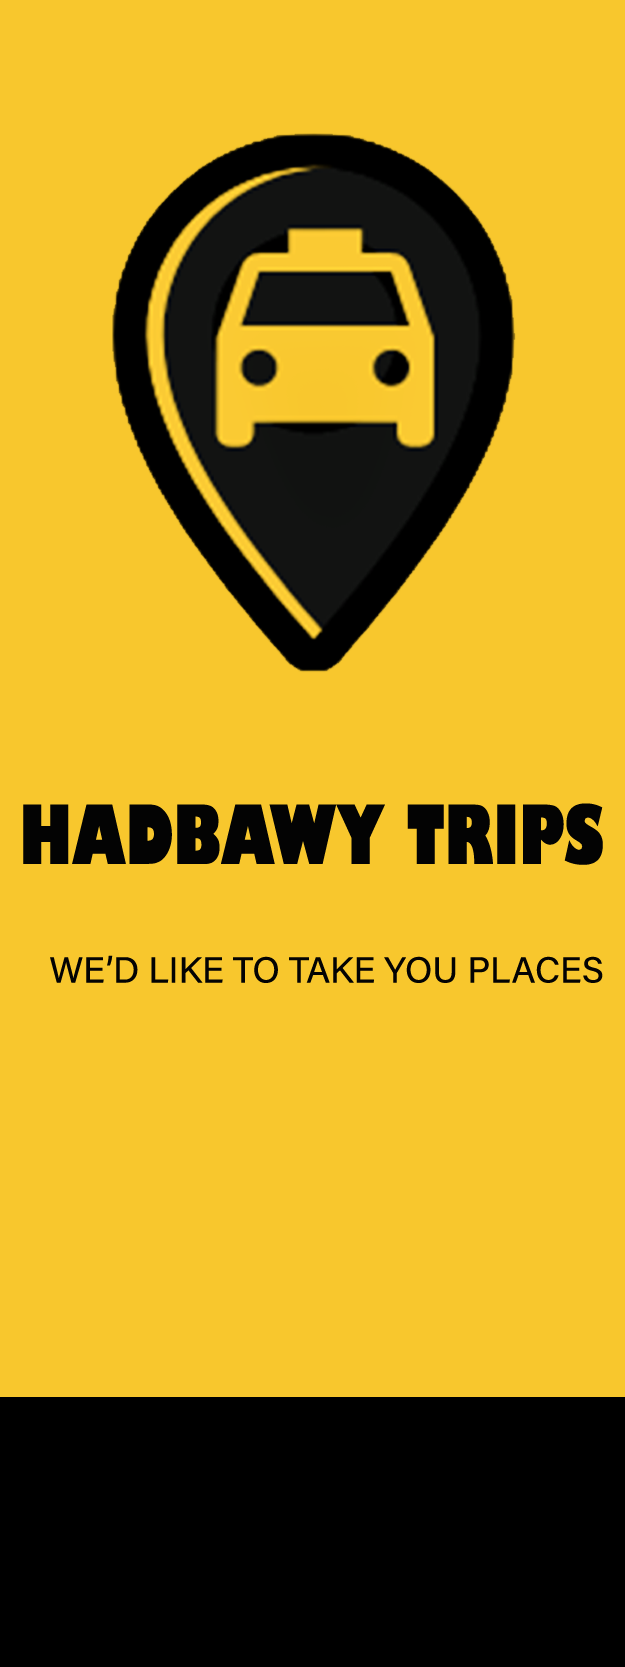
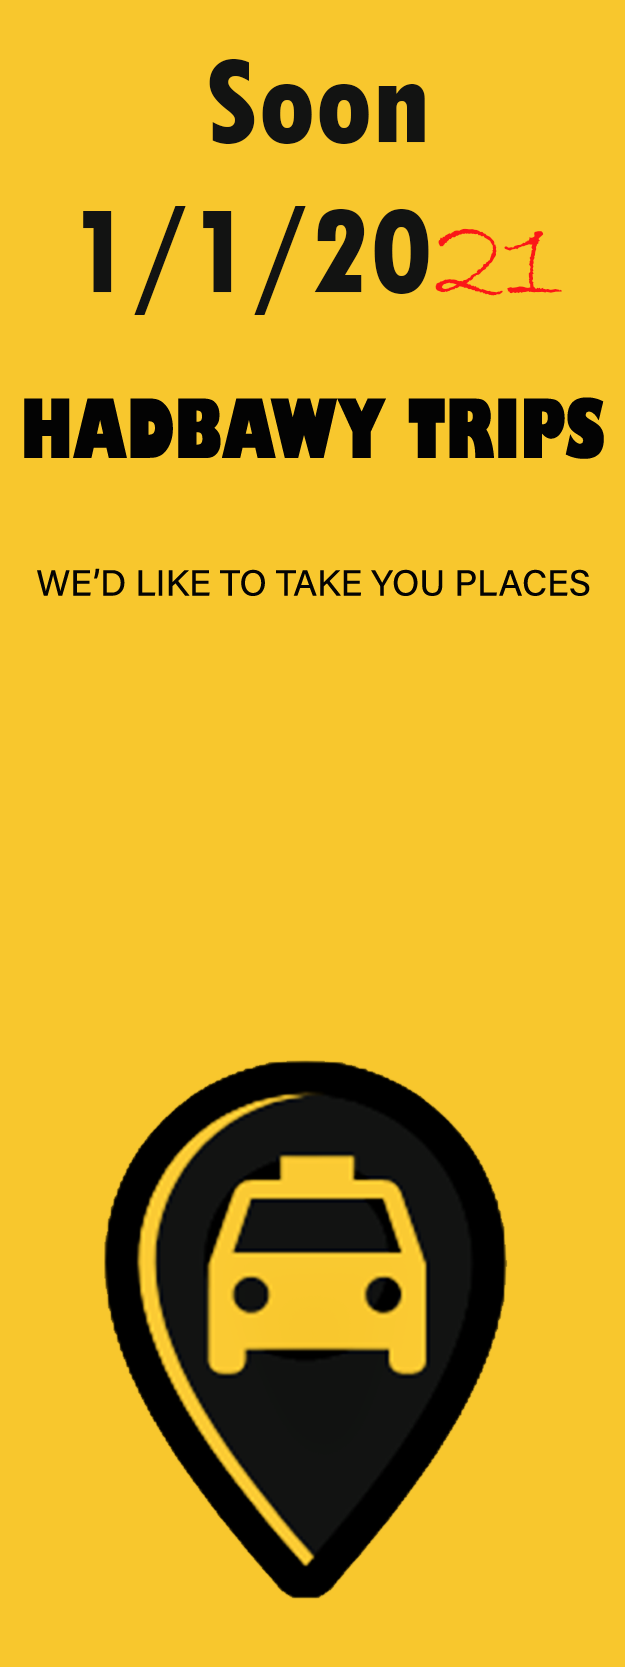
final Version

diff --git a/lib/main.dart b/lib/main.dart
@@ -5,7 +5,6 @@ import 'package:flutter/material.dart';
 import 'package:flutter/services.dart';
 import 'package:flutter_open_whatsapp/flutter_open_whatsapp.dart';
 import 'package:flutter_statusbarcolor/flutter_statusbarcolor.dart';
-import 'package:url_launcher/url_launcher.dart';
 
 void main() {
   runApp(SnackBarDemo());
@@ -81,7 +80,7 @@ class _SnackBarPageState extends State<SnackBarPage> {
             fit: BoxFit.fill,
           ),
           Positioned(
-            top: 500,
+            top: 350,
             left: 10,
             right: 10,
             child: Container(
@@ -100,33 +99,6 @@ class _SnackBarPageState extends State<SnackBarPage> {
               ),
             ),
           ),
-          Positioned(
-              top: 660,
-              left: 25,
-              right: 25,
-              child: Container(
-                width: MediaQuery.of(context).size.width,
-                child: Column(
-                  mainAxisAlignment: MainAxisAlignment.spaceBetween,
-                  children: [
-                    Text(
-                      'final version at 1/1/2021  ',
-                      style: TextStyle(
-                        fontSize: 25,
-                        color: Colors.white,
-                      ),
-                    ),
-                    Text('Soon',
-                        style: TextStyle(
-                            decoration: TextDecoration.underline,
-                            fontSize: 30,
-                            fontStyle: FontStyle.italic,
-                            fontWeight: FontWeight.bold,
-                            decorationStyle: TextDecorationStyle.double,
-                            color: Color(0xFFF8C72D))),
-                  ],
-                ),
-              ))
         ],
       ),
     );
